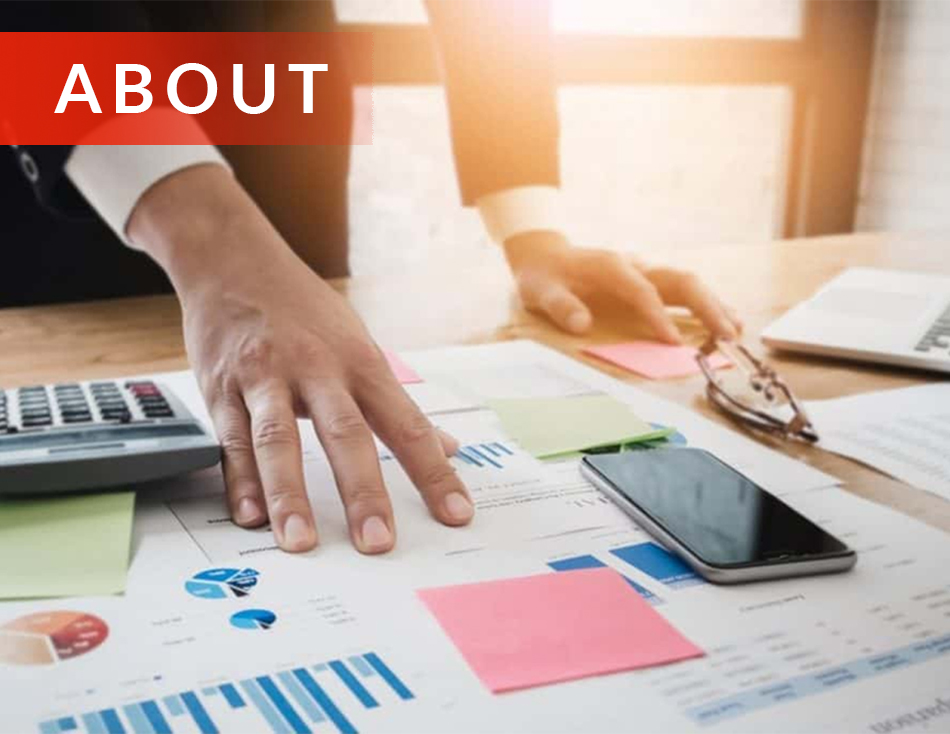
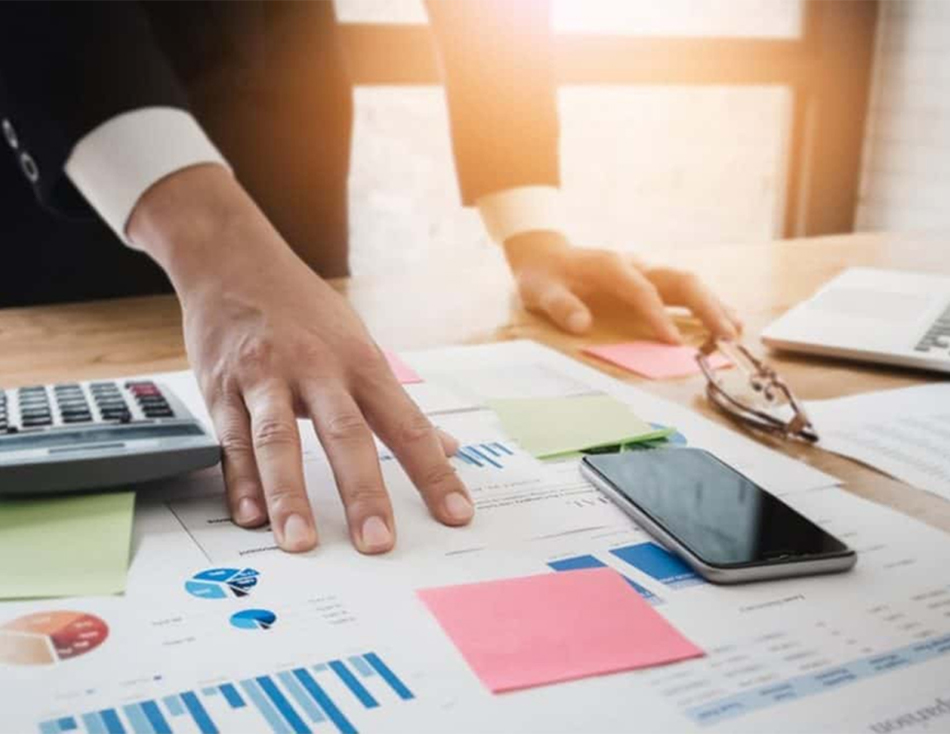
Made some adjustments on translations

Changed region(s): [[0.0, 0.03, 0.3358, 0.2098], [0.3663, 0.1199, 0.3968, 0.2098]]

diff --git a/src/components/Footer/index.js b/src/components/Footer/index.js
@@ -1,4 +1,5 @@
 import React, { useState } from "react";
+import { useTranslation } from "react-i18next";
 
 import instagram from "../../assets/images/instagram.svg";
 import linkedin from "../../assets/images/linkedin.svg";
@@ -10,6 +11,8 @@ import { Container, Social, GoUp } from "./styles";
 export default function Footer() {
   const [message, setMessage] = useState("");
 
+  const { t } = useTranslation();
+
   async function register() {
     console.log(message);
   }
@@ -18,7 +21,7 @@ export default function Footer() {
     <>
       <Container>
         <div>
-          <h2>CONTACT INFORMATION</h2>
+          <h2>{t("Contact Information")}</h2>
           <div>
             <span>ADDRESS: 845 N GARLAND AVE, STE 100</span>
             <span>ORLANDO</span>
@@ -26,7 +29,7 @@ export default function Footer() {
           </div>
 
           <div>
-            <span>PHONE:</span>
+            <span className="uppercase">{t("Phone")}:</span>
             <span>407-326-8484</span>
           </div>
 
@@ -42,10 +45,14 @@ export default function Footer() {
         </div>
 
         <div>
-          <h2>FOLLOW US</h2>
+          <h2>{t("Follow Us")}</h2>
 
           <Social>
-            <a href="http://instagram.com/MedeirosSouzaTax" target="_blank">
+            <a
+              href="http://instagram.com/MedeirosSouzaTax"
+              target="_blank"
+              rel="noopener noreferrer"
+            >
               <div>
                 <img src={instagram} alt="IG" />
               </div>
@@ -53,6 +60,7 @@ export default function Footer() {
             <a
               href="https://www.linkedin.com/feed/update/urn:li:activity:6654500294791086080"
               target="_blank"
+              rel="noopener noreferrer"
             >
               <div>
                 <img src={linkedin} alt="IN" />
@@ -61,6 +69,7 @@ export default function Footer() {
             <a
               href="http://fb.com/MedeirosSouzaTax"
               target="_blank"
+              rel="noopener noreferrer"
             >
               <div>
                 <img src={facebook} alt="FB" />
@@ -70,22 +79,22 @@ export default function Footer() {
 
           <h2>MENU</h2>
           <a href="#home">Home</a>
-          <a href="#about">About</a>
-          <a href="#services">Services</a>
-          <a href="#contact">Contact</a>
+          <a href="#about">{t("About")}</a>
+          <a href="#services">{t("Services")}</a>
+          <a href="#contact">{t("Contact")}</a>
         </div>
 
         <div>
-          <h2>DO YOU WANT TO RECEIVE NEWS BY EMAIL?</h2>
+          <h2>{t("Do you want to receive news by email")}</h2>
 
-          <h3>REGISTER: </h3>
+          <h3>{t("Register")}: </h3>
 
           <input
             type="text"
             onChange={(e) => setMessage(e.target.value)}
-            placeholder="Write your e-mail"
+            placeholder={t("Write your e-mail")}
           />
-          <button onClick={register}>SEND</button>
+          <button onClick={register}>{t("Send")}</button>
         </div>
       </Container>
       <GoUp onClick={() => window.scrollTo({ top: 0, behavior: "smooth" })}>

diff --git a/src/components/Footer/styles.js b/src/components/Footer/styles.js
@@ -24,15 +24,21 @@ export const Container = styled.div`
 
     h2 {
       margin-bottom: 10px;
+      text-transform: uppercase;
     }
 
     div {
       color: rgba(255, 255, 255, 0.7);
       margin-bottom: 20px;
+
+      span.uppercase {
+        text-transform: uppercase;
+      }
     }
 
     h3 {
       margin-top: 20px;
+      text-transform: uppercase;
     }
 
     input {
@@ -54,6 +60,7 @@ export const Container = styled.div`
       font-size: 16px;
       cursor: pointer;
       transition: 0.1s;
+      text-transform: uppercase;
 
       &:hover {
         background: ${darken(0.1, "#ff000c")};

diff --git a/src/pages/Home/components/About/index.js b/src/pages/Home/components/About/index.js
@@ -1,6 +1,8 @@
 import React from "react";
 import { useTranslation } from "react-i18next";
 
+import SideTag from "../../../../components/SideTag";
+
 import about from "../../../../assets/images/about.jpg";
 
 import { Container } from "./styles";
@@ -10,6 +12,9 @@ function About() {
 
   return (
     <Container id="about">
+      <SideTag side="left">
+        <strong>{t("About").split(" ")[0]}</strong>
+      </SideTag>
       <img src={about} alt="About" />
 
       <div>

diff --git a/src/pages/Home/components/About/styles.js b/src/pages/Home/components/About/styles.js
@@ -3,6 +3,7 @@ import styled from "styled-components";
 export const Container = styled.div`
   padding: 50px 0 80px;
   display: flex;
+  position: relative;
 
   @media (max-width: 768px) {
     flex-direction: column;
@@ -24,6 +25,11 @@ export const Container = styled.div`
 
     @media (max-width: 768px) {
       padding: 40px 30px 0 20px;
+    }
+
+    &.side-tag {
+      position: absolute;
+      top: 70px;
     }
 
     p {

diff --git a/src/assets/translations/english/index.js b/src/assets/translations/english/index.js
@@ -1,5 +1,6 @@
 import about from "./about";
 import contact from "./contact";
+import footer from "./footer";
 import news from "./news";
 import partners from "./partners";
 import services from "./services";
@@ -7,6 +8,7 @@ import services from "./services";
 export default {
   ...about,
   ...contact,
+  ...footer,
   ...news,
   ...partners,
   ...services,

diff --git a/src/assets/translations/portuguese/index.js b/src/assets/translations/portuguese/index.js
@@ -1,5 +1,6 @@
 import about from "./about";
 import contact from "./contact";
+import footer from "./footer";
 import news from "./news";
 import partners from "./partners";
 import services from "./services";
@@ -7,6 +8,7 @@ import services from "./services";
 export default {
   ...about,
   ...contact,
+  ...footer,
   ...news,
   ...partners,
   ...services,

diff --git a/src/assets/translations/spanish/index.js b/src/assets/translations/spanish/index.js
@@ -1,5 +1,6 @@
 import about from "./about";
 import contact from "./contact";
+import footer from "./footer";
 import news from "./news";
 import partners from "./partners";
 import services from "./services";
@@ -7,6 +8,7 @@ import services from "./services";
 export default {
   ...about,
   ...contact,
+  ...footer,
   ...news,
   ...partners,
   ...services,

diff --git a/src/assets/translations/spanish/footer.js b/src/assets/translations/spanish/footer.js
@@ -1,0 +1,10 @@
+export default {
+  "Contact Information": "Información del Contacto",
+  Phone: "Teléfono",
+  "Follow Us": "Síguenos",
+  "Do you want to receive news by email":
+    "¿Quieres recibir noticias por email?",
+  Register: "Registrarse",
+  "Write your e-mail": "Escribe tu email",
+  Send: "Enviar",
+};

diff --git a/src/assets/translations/portuguese/footer.js b/src/assets/translations/portuguese/footer.js
@@ -1,0 +1,9 @@
+export default {
+  "Contact Information": "Informações de Contato",
+  Phone: "Telefone",
+  "Follow Us": "Nos siga",
+  "Do you want to receive news by email": "Deseja receber novidades por email?",
+  Register: "Registrar",
+  "Write your e-mail": "Escreva seu e-mail",
+  Send: "Enviar",
+};

diff --git a/src/assets/translations/english/footer.js b/src/assets/translations/english/footer.js
@@ -1,0 +1,10 @@
+export default {
+  "Contact Information": "Contact Information",
+  Phone: "Phone",
+  "Follow Us": "Follow Us",
+  "Do you want to receive news by email?":
+    "Do you want to receive news by email?",
+  Register: "Register",
+  "Write your e-mail": "Write your e-mail",
+  Send: "Send",
+};

diff --git a/src/assets/translations/spanish/services.js b/src/assets/translations/spanish/services.js
@@ -38,7 +38,7 @@ export default {
   "Investment and Management": "Inversión & Gestión",
   InvestmentAndManagementText,
 
-  Services: "Services",
+  Services: "Servicios",
 
   "Tax and Accounting": "Impuestos y Contabilidad",
   TaxAndAccountingText,

diff --git a/src/components/NavBar/styles.js b/src/components/NavBar/styles.js
@@ -51,6 +51,9 @@ export const Container = styled.div`
     ul {
       list-style: none;
       padding: 0;
+      display: flex;
+      flex-direction: row;
+      align-items: center;
       position: relative;
 
       @media (max-width: 768px) {
